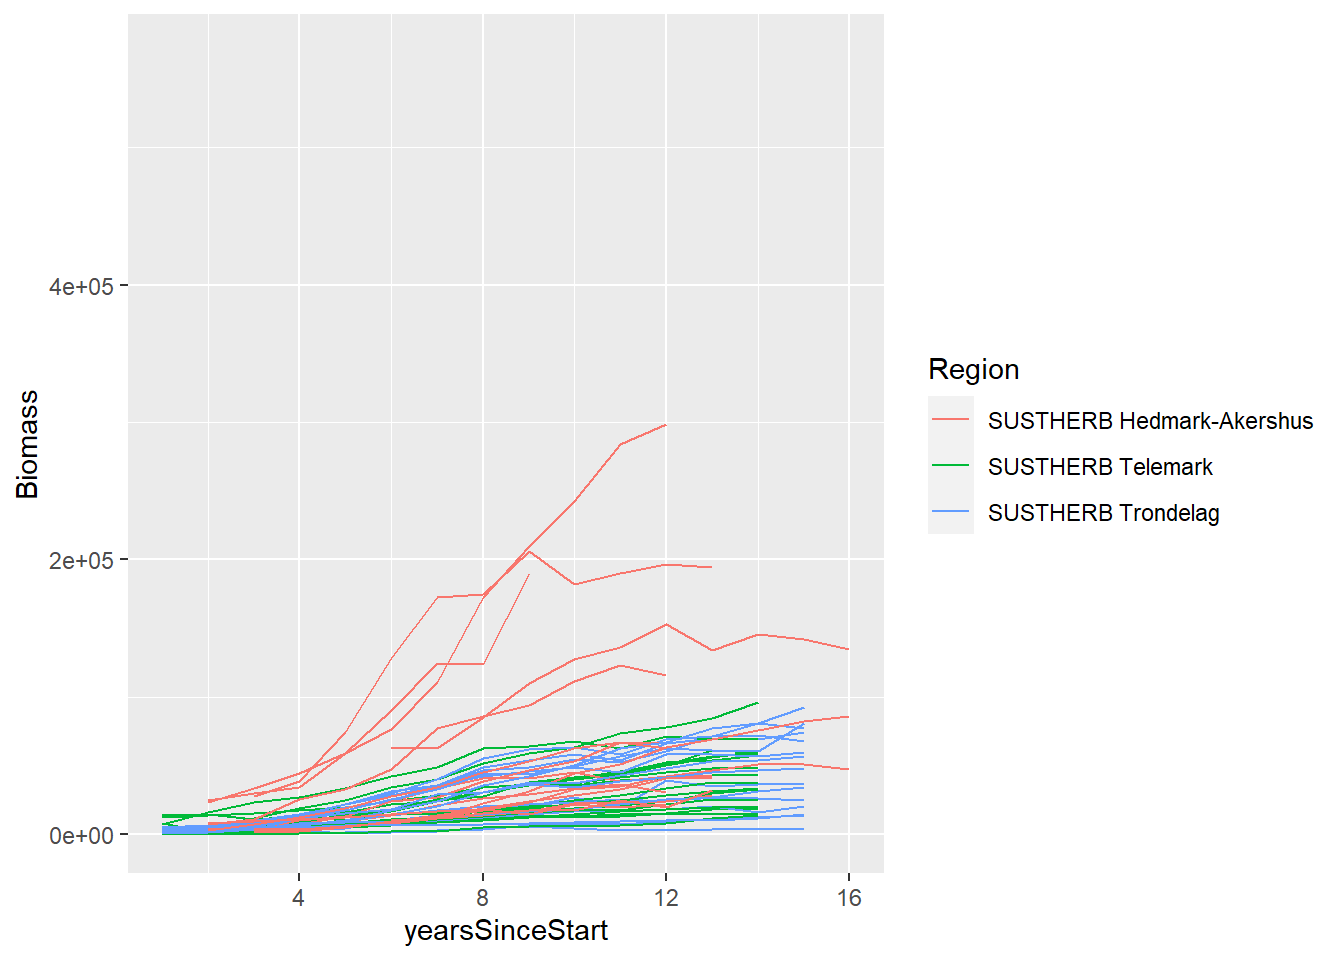
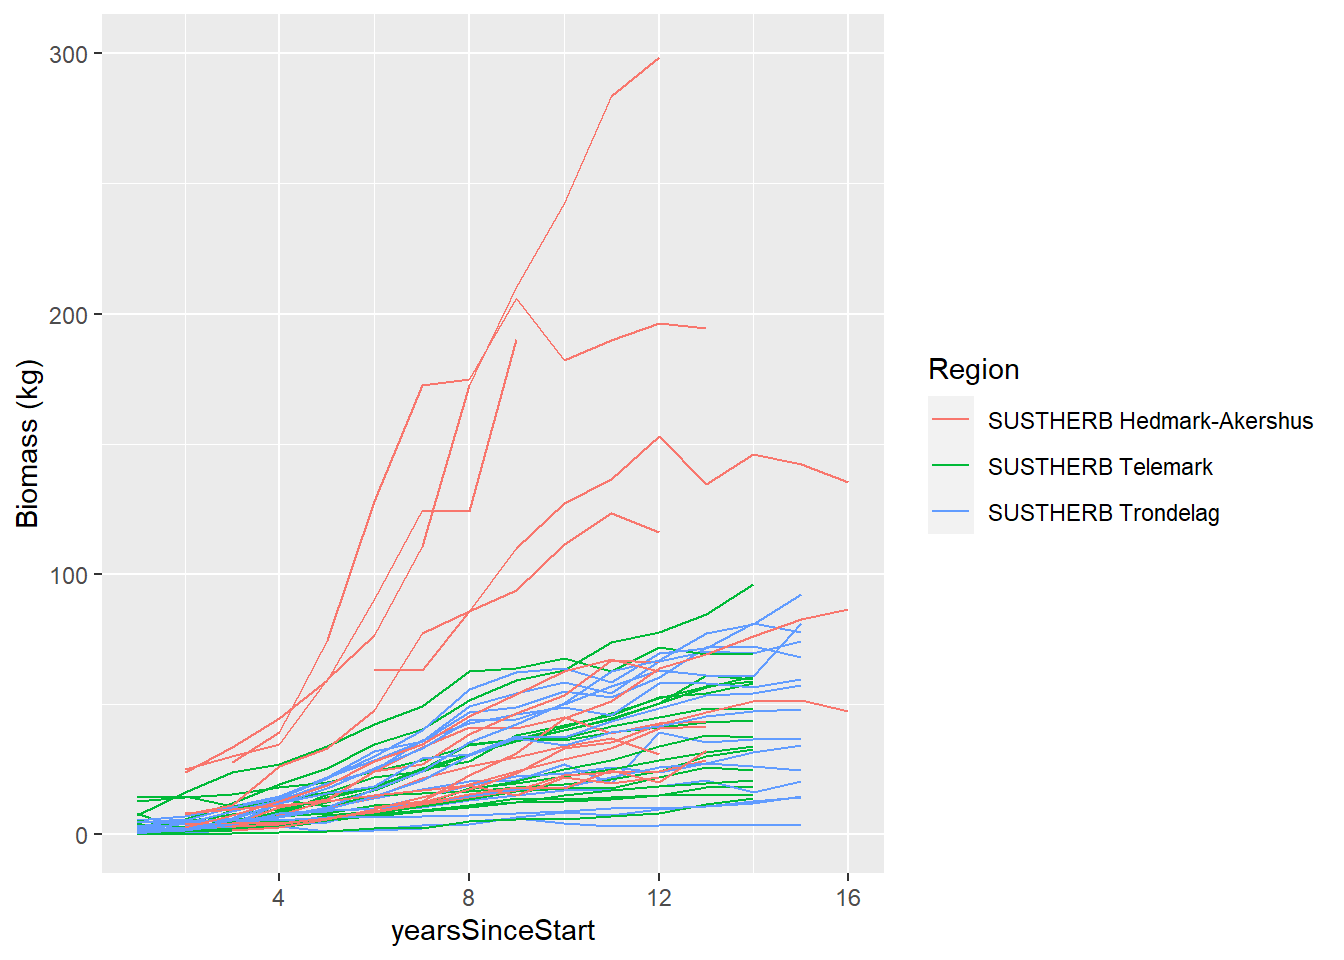
render

diff --git a/R/productivity index.html b/R/productivity index.html
@@ -98,19 +98,6 @@ pre > code.sourceCode > span > a:first-child::before { text-decoration: underlin
 
 <section id="productivity-index" class="level2">
 <h2 class="anchored" data-anchor-id="productivity-index">Productivity Index</h2>
-<div class="callout callout-style-default callout-note no-icon callout-titled">
-<div class="callout-header d-flex align-content-center">
-<div class="callout-icon-container">
-<i class="callout-icon no-icon"></i>
-</div>
-<div class="callout-title-container flex-fill">
-Pay Attention
-</div>
-</div>
-<div class="callout-body-container callout-body">
-<p>OBS, note that this script needs to be re-run when we have the updated start-up year from Hedmark and Akershus</p>
-</div>
-</div>
 <section id="background-and-rationale" class="level3">
 <h3 class="anchored" data-anchor-id="background-and-rationale">Background and rationale</h3>
 <p>Site productivity is very relevant predictor variable for our analyses. A productivity index was used in two previous papers:</p>
@@ -138,7 +125,7 @@ Pay Attention
 </section>
 <section id="allo" class="level2">
 <h2 class="anchored" data-anchor-id="allo">Allometric models</h2>
-<p>Here are the allometric models I ill use.</p>
+<p>Here are the allometric models I ill use, from the Ecosystems paper. The units are not given in the table, but interpreted from the data to be grams.</p>
 <div class="cell">
 <div class="cell-output-display">
 <div class="quarto-figure quarto-figure-center">
@@ -159,7 +146,7 @@ Pay Attention
 </section>
 <section id="height-distribution-over-time" class="level2">
 <h2 class="anchored" data-anchor-id="height-distribution-over-time">Height distribution over time</h2>
-<p>The number of stems in each height class (1-7) is recorded in the field, annually, since the start of the experiment. Height class 7 include all trees above 3 meters. We therefore have no precice height data for the tree community as more and more trees grow above 3 meters. First we will therefore explore the data and see how many years of data we can calculate the productivity index with.</p>
+<p>The number of stems in each height class (1-7) is recorded in the field, annually, since the start of the experiment. Height class 7 include all trees above 3 meters. We therefore have no precise height data for the tree community as more and more trees grow above 3 meters. First we will therefore explore the data and see how many years of data we can calculate the productivity index with.</p>
 <p>The sites in Hedmark-Akershus were initiated at different times:</p>
 <div class="cell">
 <div class="sourceCode cell-code" id="cb2"><pre class="sourceCode r code-with-copy"><code class="sourceCode r"><span id="cb2-1"><a href="#cb2-1" aria-hidden="true" tabindex="-1"></a>init2007 <span class="ot">&lt;-</span> <span class="fu">c</span>(</span>
@@ -297,7 +284,7 @@ Figure&nbsp;2: Same figure as above, but with one line per taxa.
 <div class="cell">
 <details class="code-fold">
 <summary>Code</summary>
-<div class="sourceCode cell-code" id="cb9"><pre class="sourceCode r code-with-copy"><code class="sourceCode r"><span id="cb9-1"><a href="#cb9-1" aria-hidden="true" tabindex="-1"></a><span class="fu">plot</span>(dat<span class="sc">$</span>biomass, <span class="at">ylab =</span> <span class="st">"Biomass"</span>)</span></code><button title="Copy to Clipboard" class="code-copy-button"><i class="bi"></i></button></pre></div>
+<div class="sourceCode cell-code" id="cb9"><pre class="sourceCode r code-with-copy"><code class="sourceCode r"><span id="cb9-1"><a href="#cb9-1" aria-hidden="true" tabindex="-1"></a><span class="fu">plot</span>(dat<span class="sc">$</span>biomass, <span class="at">ylab =</span> <span class="st">"Biomass (g)"</span>)</span></code><button title="Copy to Clipboard" class="code-copy-button"><i class="bi"></i></button></pre></div>
 </details>
 <div class="cell-output-display">
 <div id="fig-dist-biomass" class="quarto-figure quarto-figure-center quarto-float anchored">
@@ -306,7 +293,7 @@ Figure&nbsp;2: Same figure as above, but with one line per taxa.
 <img src="productivity-index_files/figure-html/fig-dist-biomass-1.png" class="img-fluid figure-img" width="672">
 </div>
 <figcaption class="quarto-float-caption-bottom quarto-float-caption quarto-float-fig" id="fig-dist-biomass-caption-0ceaefa1-69ba-4598-a22c-09a6ac19f8ca">
-Figure&nbsp;3: Variation in total biomass. Each point is a 2 m radii circle. Units unknown.
+Figure&nbsp;3: Variation in total biomass. Each point is a the biomass of one taxa in 2 m radii circle.
 </figcaption>
 </figure>
 </div>
@@ -323,9 +310,11 @@ You can override using the `.groups` argument.</code></pre>
 </div>
 <div class="sourceCode cell-code" id="cb12"><pre class="sourceCode r code-with-copy"><code class="sourceCode r"><span id="cb12-1"><a href="#cb12-1" aria-hidden="true" tabindex="-1"></a>dat_site <span class="sc">|&gt;</span></span>
 <span id="cb12-2"><a href="#cb12-2" aria-hidden="true" tabindex="-1"></a>  <span class="fu">ggplot</span>() <span class="sc">+</span></span>
-<span id="cb12-3"><a href="#cb12-3" aria-hidden="true" tabindex="-1"></a>  <span class="fu">geom_line</span>(<span class="fu">aes</span>(<span class="at">x =</span> yearsSinceStart, <span class="at">y =</span> Biomass, </span>
+<span id="cb12-3"><a href="#cb12-3" aria-hidden="true" tabindex="-1"></a>  <span class="fu">geom_line</span>(<span class="fu">aes</span>(<span class="at">x =</span> yearsSinceStart, <span class="at">y =</span> Biomass<span class="sc">/</span><span class="dv">1000</span>, </span>
 <span id="cb12-4"><a href="#cb12-4" aria-hidden="true" tabindex="-1"></a>                <span class="at">group =</span> LocalityCode,</span>
-<span id="cb12-5"><a href="#cb12-5" aria-hidden="true" tabindex="-1"></a>                <span class="at">color =</span> Region))</span></code><button title="Copy to Clipboard" class="code-copy-button"><i class="bi"></i></button></pre></div>
+<span id="cb12-5"><a href="#cb12-5" aria-hidden="true" tabindex="-1"></a>                <span class="at">color =</span> Region))<span class="sc">+</span></span>
+<span id="cb12-6"><a href="#cb12-6" aria-hidden="true" tabindex="-1"></a>  <span class="fu">labs</span>(<span class="at">y =</span> <span class="st">"Biomass (kg)"</span>)<span class="sc">+</span></span>
+<span id="cb12-7"><a href="#cb12-7" aria-hidden="true" tabindex="-1"></a>  <span class="fu">ylim</span>(<span class="fu">c</span>(<span class="dv">0</span>,<span class="dv">300</span>))</span></code><button title="Copy to Clipboard" class="code-copy-button"><i class="bi"></i></button></pre></div>
 <div class="cell-output cell-output-stderr">
 <pre><code>Warning: Removed 1 row containing missing values (`geom_line()`).</code></pre>
 </div>
@@ -342,7 +331,7 @@ Figure&nbsp;4: Biomass increments over time for each site.
 </div>
 </div>
 </div>
-<p>We see in <a href="#fig-biomassInc" class="quarto-xref">Figure&nbsp;4</a> that biomass accumulated relatively linearly for Telemakr and Trøndelag, but that for the more productive region Hedmark-Akerhus we see a plateu caused by more trees going into the 7th height category where all trees are said to be 325 cm even if they are much taller in reality.</p>
+<p>We see in <a href="#fig-biomassInc" class="quarto-xref">Figure&nbsp;4</a> that biomass accumulated relatively linearly for Telemark and Trøndelag, but that for the more productive region Hedmark-Akerhus we see a plateu caused by more trees going into the 7th height category where all trees are said to be 325 cm even if they are much taller in reality.</p>
 <p>It is maybe an issue that some sites in Hedmark-Akershus had more biomass at the start of the experiemet than some other sites have at the end. This could simply be because the start-up year is wrong for these sites in Hedmark-Akershus. In any case, for this exercise I can normalise each time series against the start value.</p>
 <div class="cell">
 <details class="code-fold">
@@ -357,9 +346,10 @@ Figure&nbsp;4: Biomass increments over time for each site.
 <span id="cb14-8"><a href="#cb14-8" aria-hidden="true" tabindex="-1"></a></span>
 <span id="cb14-9"><a href="#cb14-9" aria-hidden="true" tabindex="-1"></a>dat_site <span class="sc">|&gt;</span></span>
 <span id="cb14-10"><a href="#cb14-10" aria-hidden="true" tabindex="-1"></a>  <span class="fu">ggplot</span>() <span class="sc">+</span></span>
-<span id="cb14-11"><a href="#cb14-11" aria-hidden="true" tabindex="-1"></a>  <span class="fu">geom_line</span>(<span class="fu">aes</span>(<span class="at">x =</span> yearsSinceStart, <span class="at">y =</span> Biomass_norm, </span>
+<span id="cb14-11"><a href="#cb14-11" aria-hidden="true" tabindex="-1"></a>  <span class="fu">geom_line</span>(<span class="fu">aes</span>(<span class="at">x =</span> yearsSinceStart, <span class="at">y =</span> Biomass_norm<span class="sc">/</span><span class="dv">1000</span>, </span>
 <span id="cb14-12"><a href="#cb14-12" aria-hidden="true" tabindex="-1"></a>                <span class="at">group =</span> LocalityCode,</span>
-<span id="cb14-13"><a href="#cb14-13" aria-hidden="true" tabindex="-1"></a>                <span class="at">color =</span> Region))</span></code><button title="Copy to Clipboard" class="code-copy-button"><i class="bi"></i></button></pre></div>
+<span id="cb14-13"><a href="#cb14-13" aria-hidden="true" tabindex="-1"></a>                <span class="at">color =</span> Region))<span class="sc">+</span></span>
+<span id="cb14-14"><a href="#cb14-14" aria-hidden="true" tabindex="-1"></a>  <span class="fu">labs</span>(<span class="at">y =</span> <span class="st">"Biomass (g)"</span>)</span></code><button title="Copy to Clipboard" class="code-copy-button"><i class="bi"></i></button></pre></div>
 </details>
 <div class="cell-output cell-output-stderr">
 <pre><code>Warning: Removed 1 row containing missing values (`geom_line()`).</code></pre>
@@ -377,7 +367,7 @@ Figure&nbsp;5: Same as previous figure, but with normalised biomass variable.
 </div>
 </div>
 </div>
-<p>Most sites are able to reach 25000 units of biomass so I will use that as the threshold value.</p>
+<p>Most sites are able to reach 25 kg of biomass per circle, so I will use that as the threshold value.</p>
 <div class="cell">
 <details class="code-fold">
 <summary>Code</summary>
